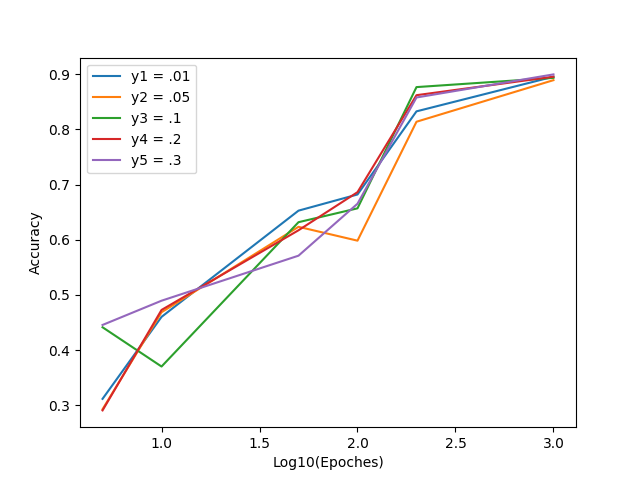
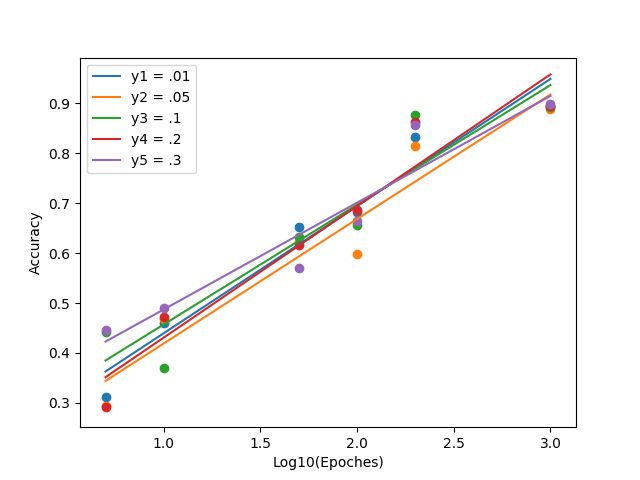
updated graph

diff --git a/graph.py b/graph.py
@@ -2,32 +2,60 @@ import matplotlib.pyplot as plt
 import numpy as np
 from math import log
 
-x = np.arange(10)
+def best_fit(X, Y):
+    # func pulled from https://stackoverflow.com/questions/22239691/code-for-line-of-best-fit-of-a-scatter-plot-in-python
+    xbar = sum(X)/len(X)
+    ybar = sum(Y)/len(Y)
+    n = len(X) # or len(Y)
 
-x = [5,10,50,100,200,1000]
+    numer = sum([xi*yi for xi,yi in zip(X, Y)]) - n * xbar * ybar
+    denum = sum([xi**2 for xi in X]) - n * xbar**2
 
-y1 = [ 0.3117154811715481, 0.4602510460251046, 0.6527196652719666, 0.6820083682008368, 0.8326359832635983, 0.895397489539749]
-y2 = [ 0.2928870292887029, 0.4686192468619247, 0.6234309623430963, 0.5983263598326359, 0.8138075313807531, 0.8891213389121339]
-y3 = [0.44142259414225943, 0.3702928870292887, 0.6317991631799164,0.6569037656903766, 0.8765690376569037, 0.893305439330544]
-y4 = [ 0.2907949790794979, 0.47280334728033474, 0.6171548117154811, 0.6861924686192469, 0.8619246861924686, 0.895397489539749]
-y5 = [ 0.4456066945606695, 0.4895397489539749, 0.5711297071129707, 0.6652719665271967, 0.8577405857740585, 0.899581589958159]
+    b = numer / denum
+    a = ybar - b * xbar
 
-lx = [log(xi,10) for xi in x]
-ly1 = [log(y,10) for y in y1]
-ly2 = [log(y,10) for y in y2]
-ly3 = [log(y,10) for y in y3]
-ly4 = [log(y,10) for y in y4]
-ly5 = [log(y,10) for y in y5]
+    return a, b
 
-plt.plot(lx, y1)
-plt.plot(lx, y2)
-plt.plot(lx, y3)
-plt.plot(lx, y4)
-plt.plot(lx, y5)
 
-plt.legend(['y1 = .01', 'y2 = .05', 'y3 = .1', 'y4 = .2', 'y5 = .3'], loc='upper left')
-plt.xlabel('Log10(Epoches)')
-plt.ylabel('Accuracy'),
-plt.savefig('graphResults.png')
+if __name__ == "__main__":
+    
+    x = np.arange(10)
+
+    x = [5,10,50,100,200,1000]
+
+    y1 = [ 0.3117154811715481, 0.4602510460251046, 0.6527196652719666, 0.6820083682008368, 0.8326359832635983, 0.895397489539749]
+    y2 = [ 0.2928870292887029, 0.4686192468619247, 0.6234309623430963, 0.5983263598326359, 0.8138075313807531, 0.8891213389121339]
+    y3 = [0.44142259414225943, 0.3702928870292887, 0.6317991631799164,0.6569037656903766, 0.8765690376569037, 0.893305439330544]
+    y4 = [ 0.2907949790794979, 0.47280334728033474, 0.6171548117154811, 0.6861924686192469, 0.8619246861924686, 0.895397489539749]
+    y5 = [ 0.4456066945606695, 0.4895397489539749, 0.5711297071129707, 0.6652719665271967, 0.8577405857740585, 0.899581589958159]
+
+    lx = [log(xi,10) for xi in x]
+
+    a, b = best_fit(lx, y1)
+    y1fit = [a + b * xi for xi in lx]
+    a, b = best_fit(lx, y2)
+    y2fit = [a + b * xi for xi in lx]
+    a, b = best_fit(lx, y3)
+    y3fit = [a + b * xi for xi in lx]
+    a, b = best_fit(lx, y4)
+    y4fit = [a + b * xi for xi in lx]
+    a, b = best_fit(lx, y5)
+    y5fit = [a + b * xi for xi in lx]
+
+    plt.scatter(lx, y1)
+    plt.plot(lx,y1fit)
+    plt.scatter(lx, y2)
+    plt.plot(lx,y2fit)
+    plt.scatter(lx, y3)
+    plt.plot(lx,y3fit)
+    plt.scatter(lx, y4)
+    plt.plot(lx,y4fit)
+    plt.scatter(lx, y5)
+    plt.plot(lx,y5fit)
+
+    plt.legend(['y1 = .01', 'y2 = .05', 'y3 = .1', 'y4 = .2', 'y5 = .3'], loc='upper left')
+    plt.xlabel('Log10(Epoches)')
+    plt.ylabel('Accuracy'),
+    plt.savefig('graphResults.png')
 
 
